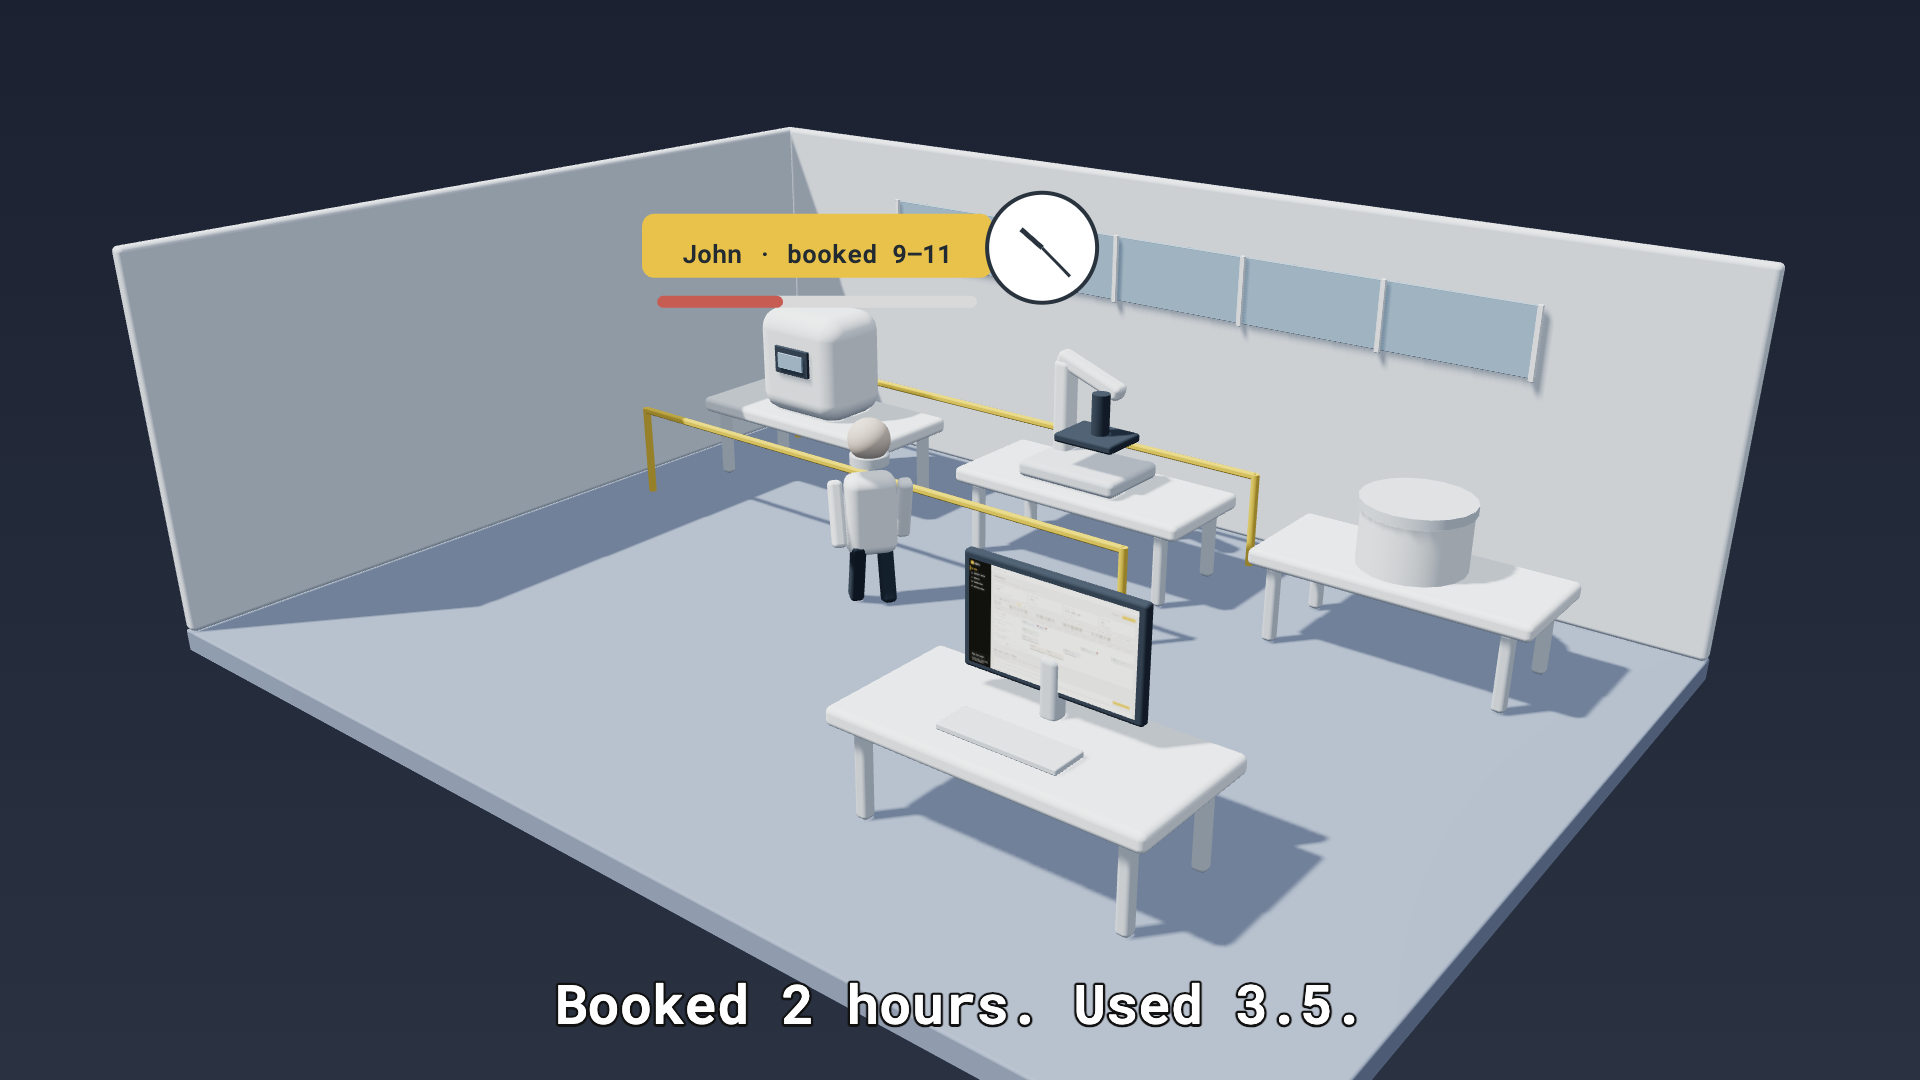
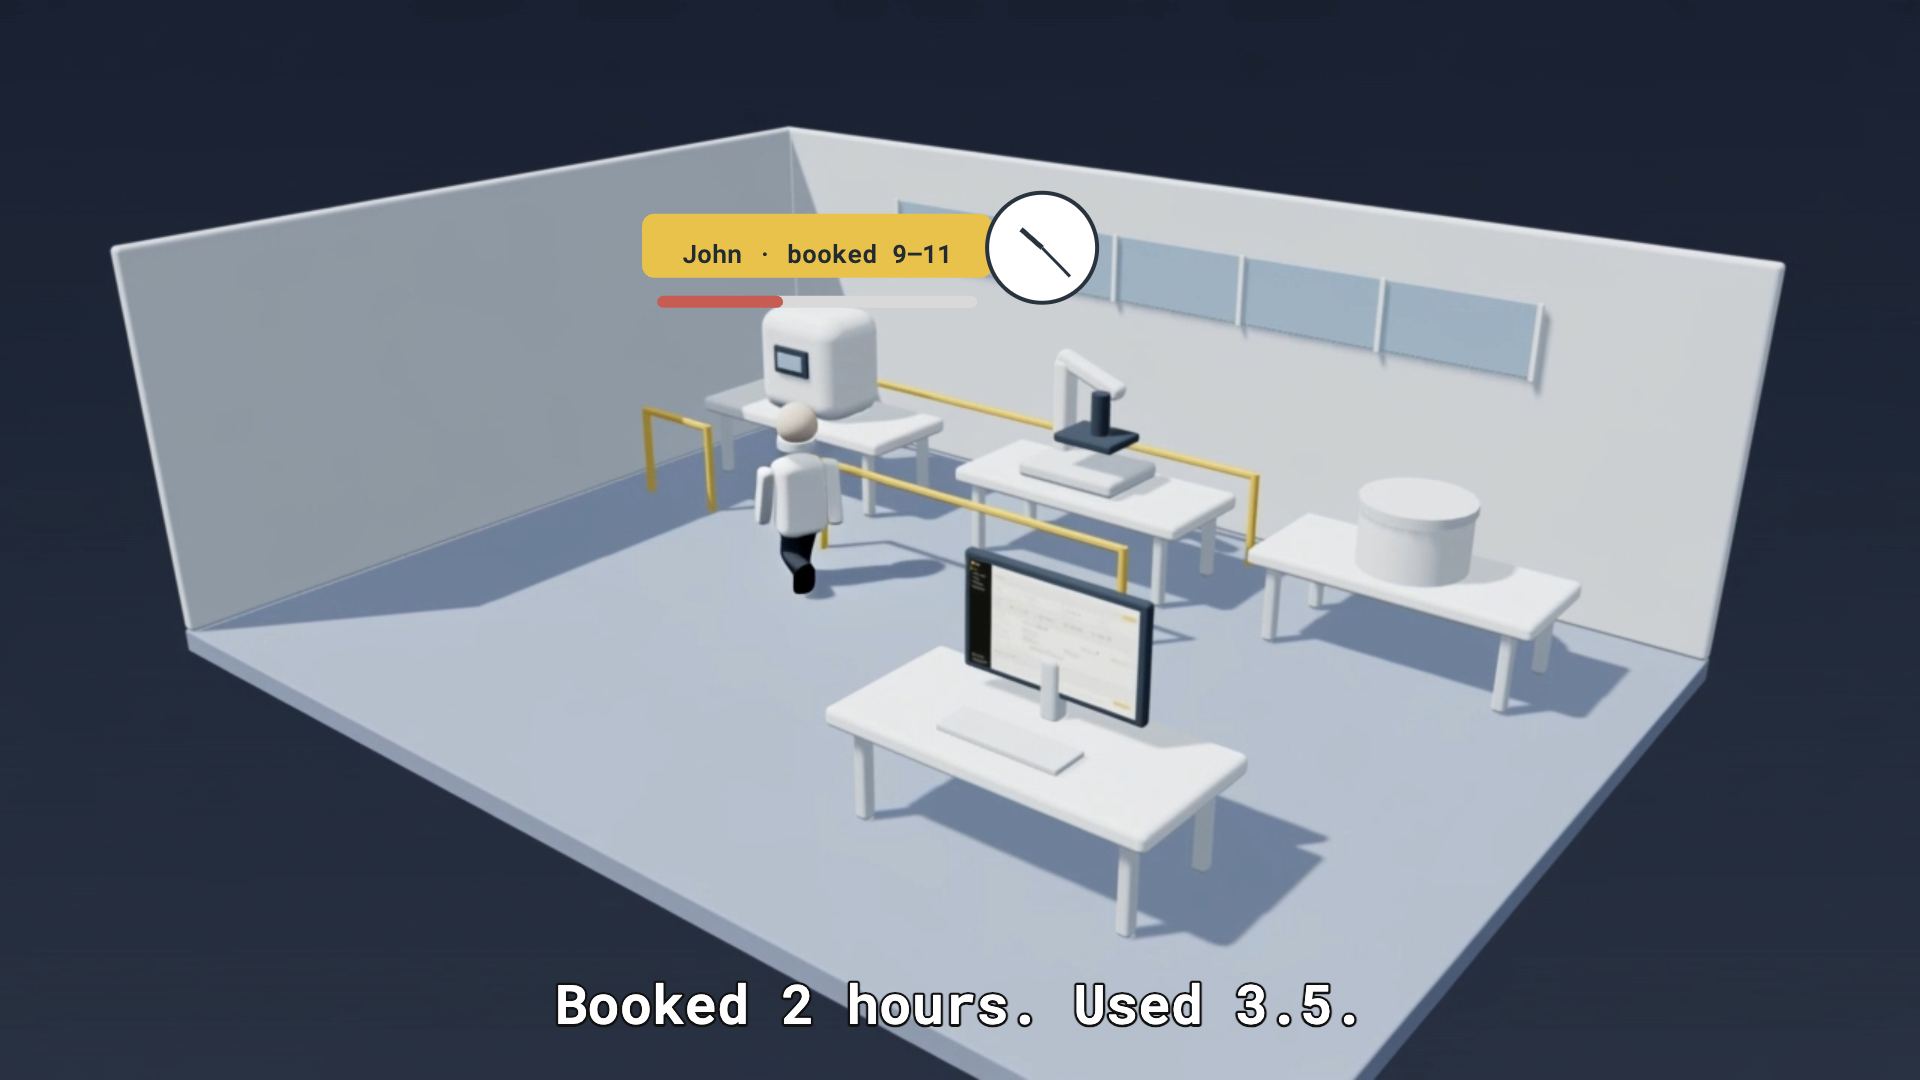
Demo film: AI-rendered opening and push-in shots, rail gate, smooth app-to-split transition

diff --git a/demo/v6/film.js b/demo/v6/film.js
@@ -31,7 +31,10 @@ const loaded=imageNames.map(n=>new Promise((resolve,reject)=>{const im=new Image
 let screen;
 // Yellow safety rail around the instrument bay.
 for(const x of [-6.6,1.8])for(const z of [-4.5,-1.35])cyl(room,x,.65,z,.055,1.3,yellow);
-for(const z of [-4.5,-1.35])box(room,-2.4,1.27,z,8.4,.09,.09,yellow,.03);
+// Back rail is continuous; the front rail has a gate opening so the researcher walks in through it.
+box(room,-2.4,1.27,-4.5,8.4,.09,.09,yellow,.03);
+for(const x of [-5.3,-3.1])cyl(room,x,.65,-1.35,.055,1.3,yellow);
+box(room,-5.95,1.27,-1.35,1.3,.09,.09,yellow,.03);box(room,-.65,1.27,-1.35,4.9,.09,.09,yellow,.03);
 // Human faces the instruments. Limbs swing deterministically.
 const human=new THREE.Group();room.add(human);box(human,0,1.22,0,.65,1.05,.43,white,.2);cyl(human,0,1.95,0,.25,.12,light);const head=new THREE.Mesh(new THREE.SphereGeometry(.27,20,14),mat(0xd8c8b6));head.position.y=2.2;head.castShadow=true;human.add(head);
 const legs=[],arms=[];for(const s of [-1,1]){let leg=box(human,s*.19,.45,0,.19,.9,.22,dark,.08);legs.push(leg);let a=box(human,s*.43,1.25,0,.18,.85,.2,white,.08);arms.push(a)}
@@ -46,7 +49,8 @@ const clamp=(v,a=0,b=1)=>Math.max(a,Math.min(b,v));const ease=v=>{v=clamp(v);ret
 function cameraAt(pos,target){camera.position.set(...pos);camera.lookAt(...target);camera.updateMatrixWorld()}
 function sceneFrame(t){
  const campusMode=t>=14;room.visible=!campusMode;campus.visible=campusMode;
- human.position.set(mix(1,-3.8,ease(t/3)),0,mix(1,-1.9,ease(t/3))); human.rotation.y=-2.2;
+ // Walk to the gate opening, then step through it to the cytometer. Never crosses a rail.
+ {const a=ease(t/2),b=ease((t-2)/1);const x=t<2?mix(1,-4.2,a):-4.2,z=t<2?mix(1.2,-.4,a):mix(-.4,-2.15,b);human.position.set(x,0,z);human.rotation.y=t<2?Math.atan2(-5.2,-1.6):Math.PI}
  const walk=t<3?Math.sin(t*9)*.35:0;legs[0].rotation.x=walk;legs[1].rotation.x=-walk;arms[0].rotation.x=-walk;arms[1].rotation.x=walk+(t>=2.7&&t<3.5?-.7:0);
  panels.forEach((p,i)=>{p.visible=false;p.position.y=2.2+ease((t-7.1-i*.2)/.7)*1.5});
  agents.forEach((a,i)=>{a.visible=false;a.children[0].material=(t>=10+i*.6)?yellow:white});
@@ -69,11 +73,19 @@ function wire(x1,y1,x2,y2,a){ctx.save();ctx.globalAlpha=a;ctx.strokeStyle='#e8c2
 function overlaySources(t){const [dx,dy]=rightProj(3.5,2.4,2.45);[['FBS','reservations'],['iLab','equipment'],['Price sheet','rates']].forEach(([n,sub],i)=>{const a=ease((t-7.1-i*.25)/.5);if(a<=0)return;const x=1010+i*300,y=130-30*(1-a);ctx.globalAlpha=a;wire(x+130,y+110,dx,dy,a);chip(x,y,260,110,n,false,sub);ctx.globalAlpha=1})}
 function overlayAgents(t){const [dx,dy]=rightProj(3.5,2.4,2.45);agentNames.forEach((n,i)=>{const a=ease((t-10-i*.12)/.4);if(a<=0)return;const x=990+i*182,y=120;ctx.globalAlpha=a;const on=t>=10.6+i*.6;wire(x+82,y+90,dx,dy,on?1:.35);chip(x,y,164,90,n,on,null,25);if(i===4&&t>12.9){ctx.fillStyle='#22221f';ctx.font='700 40px RobotoMono, monospace';ctx.fillText('✓',x+146,y+14)}ctx.globalAlpha=1})}
 function overlayHub(t){const [x,y]=project(0,hub.position.y+2.3,0);const a=ease((t-14.6)/.5);if(a<=0)return;ctx.globalAlpha=a;chip(x-110,y-90,220,76,'LaBro',true);ctx.globalAlpha=1}
+const clips={};
+for(const [k,src,from,to] of [['a','clips/shot-a.mp4',0,3.5],['b','clips/shot-b.mp4',3.5,5.5]]){const v=document.createElement('video');v.src=src;v.muted=true;v.preload='auto';v.playsInline=true;clips[k]={v,from,to,ok:false};v.addEventListener('loadeddata',()=>{clips[k].ok=true});}
+function clipFor(t){for(const c of Object.values(clips))if(c.ok&&t>=c.from&&t<c.to)return c;return null}
+window.prepare=t=>{const c=clipFor(t);if(!c)return Promise.resolve();const target=Math.min(c.v.duration-0.04,(t-c.from)/(c.to-c.from)*c.v.duration);if(Math.abs(c.v.currentTime-target)<0.001)return Promise.resolve();return new Promise(r=>{c.v.addEventListener('seeked',()=>r(),{once:true});c.v.currentTime=target})};
 window.renderAt=function(t){t=clamp(Number(t)||0,0,18);sceneFrame(t);let grad=ctx.createLinearGradient(0,0,0,H);grad.addColorStop(0,'#1b2130');grad.addColorStop(1,'#2a3242');ctx.fillStyle=grad;ctx.fillRect(0,0,W,H);
- if(t<5.5||t>=14)ctx.drawImage(renderer.domElement,0,0);else{ctx.save();ctx.beginPath();ctx.rect(960,0,960,1080);ctx.clip();ctx.drawImage(renderer.domElement,480,0,1440,1080);ctx.restore();const zoom=1+.06*ease((t-5.5)/4.5);if(t<10){appFrame(images['02-schedule'],45,160,850,650,zoom);if(t>=7.8)appFrame(images['03-drawer'],45,160,850,650,zoom,ease((t-7.8)/.4))}else appFrame(images['05-results'],45,160,850,650,1.02)}
- if(t<3.5){overlayBooking(t);caption('Booked 2 hours. Used 3.5.')}else if(t>=5.5&&t<10)caption("LaBro's agents pull every booking, log and price.");else if(t>=10&&t<14)caption('Match. Price. Flag. You approve.');
+ if(t>=5.5&&t<6.5){const q=ease((t-5.5)/1);ctx.save();ctx.globalAlpha=q;ctx.beginPath();ctx.rect(960,0,960,1080);ctx.clip();ctx.drawImage(renderer.domElement,480+(1-q)*300,0,1440,1080);ctx.restore();
+   const r=[mix(0,45,q),mix(0,160,q),mix(1920,850,q),mix(1080,650,q)];appFrame(images['02-schedule'],r[0],r[1],r[2],r[3],1)}
+ else if(t<5.5&&clipFor(t)){const c=clipFor(t);ctx.drawImage(c.v,0,0,W,H);if(t>=4.8){const q=ease((t-4.8)/.6);ctx.save();ctx.globalAlpha=q;appFrame(images['02-schedule'],mix(240,0,q),mix(120,0,q),mix(1440,1920,q),mix(840,1080,q),1);ctx.restore()}}
+ else if(t<5.5||t>=14)ctx.drawImage(renderer.domElement,0,0);else{ctx.save();ctx.beginPath();ctx.rect(960,0,960,1080);ctx.clip();ctx.drawImage(renderer.domElement,480,0,1440,1080);ctx.restore();const zoom=1+.06*ease((t-6.5)/3.5);if(t<10){appFrame(images['02-schedule'],45,160,850,650,zoom);if(t>=7.8)appFrame(images['03-drawer'],45,160,850,650,zoom,ease((t-7.8)/.4))}else appFrame(images['05-results'],45,160,850,650,1.02)}
+ if(window.NO_OVERLAY)return;
+ if(t<3.5){overlayBooking(t);caption('Booked 2 hours. Used 3.5.')}else if(t>=6.3&&t<10)caption("LaBro's agents pull every booking, log and price.");else if(t>=10&&t<14)caption('Match. Price. Flag. You approve.');
  if(t>=7.1&&t<10)overlaySources(t);if(t>=10&&t<14)overlayAgents(t);if(t>=14&&t<16.4){overlayHub(t);caption('One LaBro for every core on campus.')}
  if(t>=16){let a=ease((t-16)/.8);ctx.fillStyle=`rgba(27,33,48,${a})`;ctx.fillRect(0,0,W,H);ctx.globalAlpha=a;ctx.textAlign='center';ctx.fillStyle='#fff';ctx.font='600 120px RobotoMono, monospace';ctx.fillText('LaBro',960,500);ctx.fillStyle='#f4c430';ctx.font='600 40px RobotoMono, monospace';ctx.fillText('You run the science. LaBro runs the lab.',960,590);ctx.globalAlpha=1}
 };
 window.selfTest=()=>{[0,5,9,12,17].forEach(window.renderAt);return true};
-window.ready=Promise.all([...loaded,document.fonts.ready]).then(()=>{const tex=new THREE.Texture(images['02-schedule']);tex.colorSpace=THREE.SRGBColorSpace;tex.needsUpdate=true;screen=new THREE.Mesh(new THREE.PlaneGeometry(1.94,1.1),new THREE.MeshBasicMaterial({map:tex}));screen.position.set(3.5,2.12,2.52);room.add(screen);window.renderAt(0)});
+window.ready=Promise.all([...loaded,document.fonts.ready,...Object.values(clips).map(c=>new Promise(r=>{if(c.v.readyState>=2)return r();c.v.addEventListener('loadeddata',r,{once:true});c.v.addEventListener('error',r,{once:true});setTimeout(r,4000)}))]).then(()=>{const tex=new THREE.Texture(images['02-schedule']);tex.colorSpace=THREE.SRGBColorSpace;tex.needsUpdate=true;screen=new THREE.Mesh(new THREE.PlaneGeometry(1.94,1.1),new THREE.MeshBasicMaterial({map:tex}));screen.position.set(3.5,2.12,2.52);room.add(screen);window.renderAt(0)});
